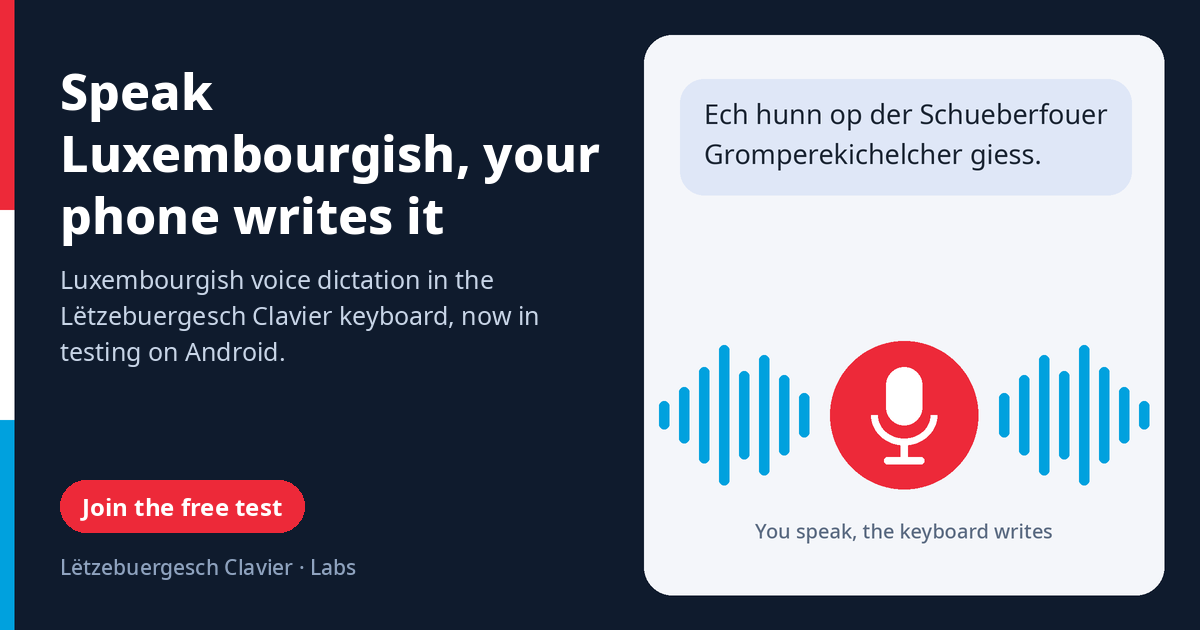
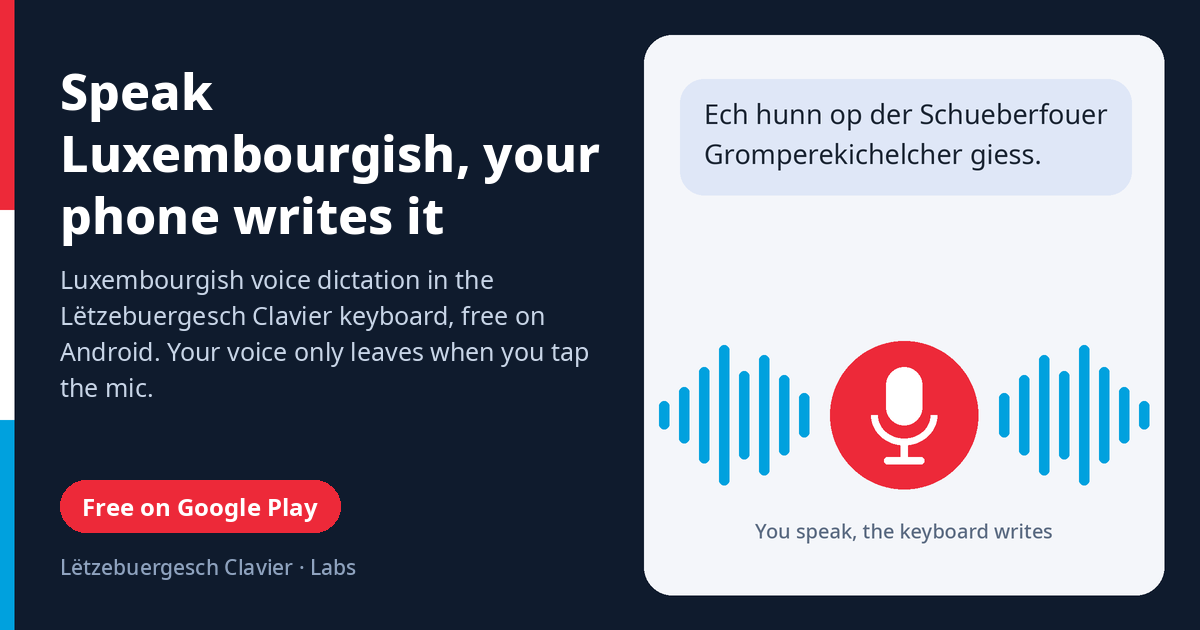
docs(site): la promesse de confidentialité suit la dictée de la 33.0.0
Ce que l'on tape ne quitte toujours pas le téléphone ; la voix, elle, part à
l'Université du Luxembourg pendant une dictée. Les pages qui disaient encore
le contraire sont corrigées : pitch deck (plus de « 0 permission réseau »),
feuille de route et note de licences, comparatif (ligne « en essai » en
double), simulateur. La page Labs ne présente plus la dictée comme un test :
elle est dans la version stable et renvoie vers Google Play. Le QR de l'APK
Labs quitte l'espace ambassadeurs, les images de partage ne disent plus
« en test » ni « hors ligne ». La politique 3.0 précise qu'elle s'applique
depuis la 33.0.0.

Claude-Session: https://claude.ai/code/session_017v16GDU5NnmPUr6u9MBxF1

diff --git a/docs/labs.html b/docs/labs.html
@@ -3,8 +3,8 @@
 <head>
 <meta charset="utf-8">
 <meta name="viewport" content="width=device-width, initial-scale=1">
-<title data-i18n="title">Labs · la dictée luxembourgeoise en avant-première</title>
-<meta name="description" content="Version expérimentale du Lëtzebuergesch Clavier avec la dictée vocale luxembourgeoise : parlez, le clavier écrit. La reconnaissance est assurée par le service LuxASR de l'Université du Luxembourg." data-i18n-content="meta-desc">
+<title data-i18n="title">Labs · la dictée luxembourgeoise</title>
+<meta name="description" content="La dictée vocale luxembourgeoise du Lëtzebuergesch Clavier, dans la version stable depuis la 33.0.0 : parlez, le clavier écrit. La reconnaissance est assurée par le service LuxASR de l'Université du Luxembourg." data-i18n-content="meta-desc">
 <link rel="icon" type="image/x-icon" href="favicon.ico">
 <link rel="stylesheet" href="assets/theme.css">
 <script>(function(){var t=localStorage.getItem('kreyol-theme');if(t)document.documentElement.setAttribute('data-theme',t);})();</script>
@@ -202,10 +202,11 @@ details.tech p{color:var(--ink-soft);font-size:14.5px;}
   <p class="eyebrow" data-i18n="eyebrow">Lëtzebuergesch Clavier · Labs</p>
   <h1 data-i18n="h1">Parlez, le clavier écrit 🔬</h1>
   <p class="lead" data-i18n="lead">
-    Labs est l'atelier du clavier : des versions expérimentales, en avance sur
-    la version stable, que vous pouvez essayer avant tout le monde. Celle-ci
-    ajoute la <strong>dictée vocale luxembourgeoise</strong> : vous parlez, et
-    le texte s'écrit au fil de votre phrase.
+    La <strong>dictée vocale luxembourgeoise</strong> est sortie de l'atelier :
+    depuis la version 33.0.0, elle est dans le clavier que tout le monde
+    installe. Vous parlez, et le texte s'écrit au fil de votre phrase. Cette
+    page raconte comment elle marche, où part votre voix, et ce qu'elle vaut,
+    mesuré.
   </p>
 </header>
 
@@ -237,13 +238,13 @@ details.tech p{color:var(--ink-soft);font-size:14.5px;}
     <div class="get-main">
       <p class="cta">
         <a class="btn primary"
-           href="https://play.google.com/apps/testing/com.potomitan.luxkeyboard"
+           href="https://play.google.com/store/apps/details?id=com.potomitan.luxkeyboard&amp;referrer=utm_source%3Dsite%26utm_medium%3Dlabs%26utm_campaign%3Ddictee"
            data-i18n="install-cta">
-          📲 Rejoindre le test sur Google Play
+          📲 Installer depuis Google Play
         </a>
       </p>
       <p class="muted" data-i18n="install-muted">
-        Android 5.0 ou plus récent · test ouvert sur Google Play ·
+        Android 5.0 ou plus récent · version 33.0.0 ou ultérieure ·
         demande les permissions <strong>micro</strong>, <strong>Internet</strong>
         et <strong>état du réseau</strong>
       </p>
@@ -283,9 +284,9 @@ details.tech p{color:var(--ink-soft);font-size:14.5px;}
   <div class="card">
     <ol class="steps">
       <li data-i18n="step1">
-        <strong>Rejoignez le test</strong> avec le bouton ci-dessus, depuis le
-        téléphone (compte Google requis), puis installez le clavier ou mettez-le
-        à jour depuis Google Play.
+        <strong>Installez le clavier</strong> avec le bouton ci-dessus, depuis
+        le téléphone, ou mettez-le à jour depuis Google Play : la dictée arrive
+        avec la version 33.0.0.
       </li>
       <li data-i18n="step3">
         <strong>Activez le clavier</strong> dans
@@ -540,8 +541,8 @@ details.tech p{color:var(--ink-soft);font-size:14.5px;}
     <li><span class="k" data-i18n="facts-k2">Reconnaissance</span><span class="v" data-i18n="facts-v2">Service LuxASR, Université du Luxembourg</span></li>
     <li><span class="k" data-i18n="facts-k3">Où va votre voix</span><span class="v" data-i18n="facts-v3">À l'Université du Luxembourg, pendant la dictée</span></li>
     <li><span class="k" data-i18n="facts-k4">Connexion</span><span class="v" data-i18n="facts-v4">Indispensable pour dicter ; le micro barré signale son absence</span></li>
-    <li><span class="k" data-i18n="facts-k5">Icône</span><span class="v" data-i18n="facts-v5">Marquée LABS sur l'écran d'accueil</span></li>
-    <li><span class="k" data-i18n="facts-k6">Installation</span><span class="v" data-i18n="facts-v6">Test ouvert Google Play, à partir du lien de cette page</span></li>
+    <li><span class="k" data-i18n="facts-k5">Icône</span><span class="v" data-i18n="facts-v5">Celle du clavier, sans marque LABS : c'est la version stable</span></li>
+    <li><span class="k" data-i18n="facts-k6">Installation</span><span class="v" data-i18n="facts-v6">Google Play, version 33.0.0 ou ultérieure</span></li>
     <li><span class="k" data-i18n="facts-k7">Mise à jour</span><span class="v" data-i18n="facts-v7">Par Google Play, comme toute application</span></li>
   </ul>
 </section>
@@ -549,7 +550,7 @@ details.tech p{color:var(--ink-soft);font-size:14.5px;}
 <footer class="page">
   <p data-i18n="footer-p1">
     Une question ? Écrivez à <a href="mailto:medhi.famibelle@gmail.com">medhi.famibelle@gmail.com</a>.<br>
-    Les versions stables sont sur la page <a href="nouveautes.html">Nouveautés</a>.
+    Ce qui change à chaque version est sur la page <a href="nouveautes.html">Nouveautés</a>.
   </p>
   <p>Lëtzebuergesch Clavier</p>
 </footer>
@@ -565,23 +566,23 @@ details.tech p{color:var(--ink-soft);font-size:14.5px;}
   'use strict';
 
   var EN = {
-    'title': 'Labs · Luxembourgish dictation, early access',
-    'meta-desc': "Experimental build of the Lëtzebuergesch Clavier keyboard with Luxembourgish voice dictation: speak, the keyboard writes. Recognition is provided by the University of Luxembourg's LuxASR service.",
+    'title': 'Labs · Luxembourgish dictation',
+    'meta-desc': "Luxembourgish voice dictation in the Lëtzebuergesch Clavier keyboard, in the stable version since 33.0.0: speak, the keyboard writes. Recognition is provided by the University of Luxembourg's LuxASR service.",
     'eyebrow': 'Lëtzebuergesch Clavier · Labs',
     'h1': 'Speak, the keyboard writes 🔬',
-    'lead': "Labs is the keyboard's workshop: experimental builds, ahead of the stable version, that you can try before everyone else. This one adds <strong>Luxembourgish voice dictation</strong>: you speak, and the text writes itself as your sentence goes.",
+    'lead': "<strong>Luxembourgish voice dictation</strong> has left the workshop: since version 33.0.0 it is in the keyboard everyone installs. You speak, and the text writes itself as your sentence goes. This page tells how it works, where your voice goes, and what it is worth, measured.",
     'thanks-h2': '🎓 Dictation by the University of Luxembourg',
     'thanks-p1': 'Speech recognition is provided by <a href="https://luxasr.uni.lu/">LuxASR</a>, the Luxembourgish automatic speech recognition service of the <strong>University of Luxembourg</strong>. Its real-time engine is published as open source, <a href="https://github.com/PeterGilles/LuxASRlive">LuxASRlive</a>, under the Apache 2.0 licence.',
     'thanks-p2': "The keyboard sends the sound and shows the text that comes back: the quality of the dictation is their work. Thanks to their team, without whom this feature wouldn't exist. During dictation, the sound is processed by their service: the <a href=\"https://luxasr.uni.lu/\">University's data protection policy</a> applies to that part.",
-    'install-cta': '📲 Join the test on Google Play',
-    'install-muted': 'Android 5.0 or later · open test on Google Play · requests the <strong>microphone</strong>, <strong>Internet</strong> and <strong>network state</strong> permissions',
+    'install-cta': '📲 Install from Google Play',
+    'install-muted': 'Android 5.0 or later · version 33.0.0 or later · requests the <strong>microphone</strong>, <strong>Internet</strong> and <strong>network state</strong> permissions',
     'keyboard-h2': 'The keyboard, with its dictation',
     'keyboard-p': "The keyboard below is the <a href=\"simulateur.html\">simulator</a>'s, with dictation already armed. The microphone transcribes Luxembourgish <strong>in real time</strong>, as on the phone; below it, a second panel shows what the service <strong>translates into French</strong>, sentence by sentence.",
     'iframe-title': 'Lëtzebuergesch keyboard, LuxASR dictation with translation',
     'capture-alt': 'Whole phone screen on an Android emulator, dictating into a text message: under the LuxASR banner, the sentence « Moien, mir treffen eis muer um zwou Auer op der Schueberfouer. » appears in three steps, then the microphone closes',
     'capture-figcaption': "On an Android emulator, in the Messages app: the text is written into the bubble as you speak, under the <strong>🌐 LuxASR</strong> banner.",
     'install-h2': 'Install and try it',
-    'step1': '<strong>Join the test</strong> with the button above, from your phone (Google account required), then install or update the keyboard from Google Play.',
+    'step1': '<strong>Install the keyboard</strong> with the button above, from your phone, or update it from Google Play: dictation comes with version 33.0.0.',
     'step3': '<strong>Enable the keyboard</strong> under <code>Settings › System › Keyboards › On-screen keyboard</code>, then pick it as the current keyboard, if needed through the keyboard icon that appears at the bottom of the screen when a text field is open.',
     'step4': '<strong>Dictate.</strong> Open any text field, tap the <strong>microphone</strong> to the right of the suggestion bar. The first time, a screen explains that your voice goes to the University: tap <strong>I agree</strong>, then allow microphone access (“No thanks” leaves dictation switched off). The banner shows <strong>🌐 LuxASR</strong> while listening. No need to tap the microphone again to finish: <strong>dictation stops on its own</strong> two to three seconds after the sentence ends.',
     'deroule-h2': 'What happens when you tap the microphone',
@@ -634,10 +635,10 @@ details.tech p{color:var(--ink-soft);font-size:14.5px;}
     'facts-k2': 'Recognition', 'facts-v2': 'LuxASR service, University of Luxembourg',
     'facts-k3': 'Where your voice goes', 'facts-v3': 'To the University of Luxembourg, during dictation',
     'facts-k4': 'Connection', 'facts-v4': 'Required to dictate; the crossed-out microphone signals its absence',
-    'facts-k5': 'Icon', 'facts-v5': 'Marked LABS on the home screen',
-    'facts-k6': 'Installation', 'facts-v6': 'Open test on Google Play, from the link on this page',
+    'facts-k5': 'Icon', 'facts-v5': 'The keyboard’s own, no LABS mark: this is the stable version',
+    'facts-k6': 'Installation', 'facts-v6': 'Google Play, version 33.0.0 or later',
     'facts-k7': 'Updates', 'facts-v7': 'Through Google Play, like any app',
-    'footer-p1': 'A question? Write to <a href="mailto:medhi.famibelle@gmail.com">medhi.famibelle@gmail.com</a>.<br>Stable versions are on the <a href="nouveautes.html">What’s new</a> page.'
+    'footer-p1': 'A question? Write to <a href="mailto:medhi.famibelle@gmail.com">medhi.famibelle@gmail.com</a>.<br>What changes with each version is on the <a href="nouveautes.html">What’s new</a> page.'
   };
 
   var FR = {}; // rempli au premier appel, à partir du HTML tel qu'écrit

diff --git a/docs/ambassadeurs.html b/docs/ambassadeurs.html
@@ -344,14 +344,14 @@ Bien à vous,</div>
     <li><a href="privacy/privacy-policy.html">La confidentialité</a> : <span>« Un clavier voit tout ce que je tape. » Ce qu'on tape ne quitte jamais le téléphone, seule la dictée envoie la voix, à l'Université du Luxembourg ; désactivation automatique dans les champs de mot de passe.</span></li>
     <li><a href="guide.html">Le guide</a> : <span>« Je ne saurai pas l'installer. » L'installation et l'activation, étape par étape.</span></li>
     <li><a href="nouveautes.html">Les nouveautés</a> : <span>« C'est encore vivant ? » Ce qui a changé à chaque version, en clair.</span></li>
-    <li><a href="labs.html">Labs</a> : <span>« Et après ? » Les versions expérimentales, à présenter comme des essais et rien de plus.</span></li>
+    <li><a href="labs.html">Labs</a> : <span>« Et la dictée ? » Comment elle marche, où part la voix, et ce qu'elle vaut, mesuré.</span></li>
   </ul>
 </section>
 
 <section id="scanner">
   <h2>5. À scanner, à coller</h2>
   <p class="section-sub">
-    Cinq codes, cinq destinations, une couleur chacun, pour qu'on ne les
+    Quatre codes, quatre destinations, une couleur chacun, pour qu'on ne les
     confonde pas sur une même table. Tous en 980 × 980 px avec la correction
     d'erreur maximale : ils restent lisibles imprimés, photographiés de travers
     ou repris dans une story.
@@ -370,10 +370,6 @@ Bien à vous,</div>
       <figure>
         <a href="assets/qr-luxkeyb-apk.png" download><img src="assets/qr-luxkeyb-apk.png" alt="QR code téléchargeant directement l'APK de la dernière version"></a>
         <figcaption><strong>APK stable</strong><br>le téléchargement démarre au scan</figcaption>
-      </figure>
-      <figure>
-        <a href="assets/qr-luxkeyb-luxasr.png" download><img src="assets/qr-luxkeyb-luxasr.png" alt="QR code téléchargeant l'APK de la version Labs"></a>
-        <figcaption><strong>Labs</strong><br>la version d'essai</figcaption>
       </figure>
       <figure>
         <a href="assets/qr-luxkeyb-site.png" download><img src="assets/qr-luxkeyb-site.png" alt="QR code ouvrant la page d'accueil du site"></a>

diff --git a/docs/labs-en.html b/docs/labs-en.html
@@ -3,19 +3,19 @@
 <head>
 <meta charset="utf-8">
 <meta name="viewport" content="width=device-width, initial-scale=1">
-<title>Labs · Luxembourgish dictation, early access</title>
+<title>Labs · Luxembourgish dictation</title>
 <!-- Lien à partager en anglais. Les robots d'aperçu (WhatsApp, réseaux) ne
      lancent pas le JavaScript de labs.html : ?lang=en leur montrerait les
      balises françaises. Cette page porte les balises anglaises et renvoie le
      visiteur vers la page Labs en anglais. -->
-<meta name="description" content="Join the test of Luxembourgish voice dictation in the Lëtzebuergesch Clavier keyboard, free on Android.">
+<meta name="description" content="Luxembourgish voice dictation in the Lëtzebuergesch Clavier keyboard, free on Android since version 33.0.0.">
 <link rel="canonical" href="https://famibelle.github.io/LuxKeyb/labs.html?lang=en">
 <meta property="og:type" content="website">
 <meta property="og:locale" content="en_GB">
 <meta property="og:site_name" content="Lëtzebuergesch Clavier">
 <meta property="og:url" content="https://famibelle.github.io/LuxKeyb/labs-en.html">
 <meta property="og:title" content="Speak Luxembourgish, your phone writes it 🎙">
-<meta property="og:description" content="Join the test of Luxembourgish voice dictation in the Lëtzebuergesch Clavier keyboard, free on Android.">
+<meta property="og:description" content="Luxembourgish voice dictation in the Lëtzebuergesch Clavier keyboard, free on Android since version 33.0.0.">
 <meta property="og:image" content="https://famibelle.github.io/LuxKeyb/assets/og/partage-labs-en.png">
 <meta property="og:image:width" content="1200">
 <meta property="og:image:height" content="630">
@@ -26,6 +26,6 @@
 <script>location.replace('labs.html?lang=en' + location.hash);</script>
 </head>
 <body>
-<p><a href="labs.html?lang=en">Open Labs: Luxembourgish dictation, early access</a></p>
+<p><a href="labs.html?lang=en">Open Labs: Luxembourgish dictation</a></p>
 </body>
 </html>

diff --git a/docs/dossier-feuille-de-route.html b/docs/dossier-feuille-de-route.html
@@ -199,20 +199,22 @@ C'est le meilleur rapport entre l'effort et le résultat, et le seul chantier
     accord préalable d'Apple. L'intégration native, elle, reste un objectif
     de plus long terme et n'est pas un préalable.</li>
     <li><b>Dictée luxembourgeoise adossée à la Schreifmaschinn du ZLS</b>
-    plutôt qu'à un modèle tiers. Un prototype de laboratoire montre déjà que le
-    clavier sait confier sa dictée à un service distant, en l'occurrence
-    <a href="https://luxasr.uni.lu/">LuxASR</a>, à l'Université du Luxembourg,
-    Le sujet est donc prêt techniquement, et ce qui reste ne l'est pas :
-    l'accord formel du service appelé, et la question de confidentialité,
-    puisque l'audio quitterait l'appareil, ce que la politique publiée exclut
-    aujourd'hui. Les deux se tranchent avant et non après.</li>
+    plutôt qu'à un modèle tiers. Depuis la version 33.0.0, le clavier dicte
+    en luxembourgeois en confiant la voix à un service distant,
+    <a href="https://luxasr.uni.lu/">LuxASR</a>, à l'Université du Luxembourg.
+    La question de confidentialité a été tranchée avant la sortie et non après :
+    la <a href="privacy/privacy-policy.html#dictee-vocale">politique publiée</a>
+    a été réécrite pour dire que la voix, et elle seule, quitte l'appareil
+    pendant une dictée. S'adosser au ZLS reste l'objectif : une même source
+    pour l'écrit et la parole.</li>
     <li><b>Maintenance continue</b> : compatibilité avec les versions
     d'Android et d'iOS, régénération du dictionnaire à chaque republication
     trimestrielle du LOD, support des utilisateurs.</li>
   </ul>
   <h3>Ce qu'il faut pour démarrer</h3>
   <p>
-    Un compte développeur Apple, et une décision sur la dictée. Ce chantier
+    Un compte développeur Apple, et une décision sur le service qui portera la
+    dictée à terme. Ce chantier
     peut suivre les deux premiers sans les retarder.
   </p>
 </section>

diff --git a/docs/pitch-deck.html b/docs/pitch-deck.html
@@ -134,11 +134,12 @@ tbody tr:last-child td{border-bottom:0;}
     <p class="lead">
       Le clavier qui permet d'écrire le luxembourgeois sur son téléphone
       aussi facilement qu'on y écrit le français ou l'allemand. Publié,
-      mesuré, et fonctionnant sans aucun accès au réseau.
+      mesuré, et dont la frappe fonctionne sans aucun accès au réseau.
+      Depuis la version 33.0.0, il dicte aussi en luxembourgeois.
     </p>
     <div class="tiles">
       <div class="tile hi"><span class="n">123 297</span><span class="k">formes luxembourgeoises reconnues, adossées au dictionnaire officiel de la langue</span></div>
-      <div class="tile"><span class="n">0</span><span class="k">permission réseau déclarée : aucune frappe ne peut quitter l'appareil</span></div>
+      <div class="tile"><span class="n">0</span><span class="k">mot tapé envoyé : seule la voix part, pendant une dictée, vers l'Université du Luxembourg</span></div>
       <div class="tile"><span class="n">28 sept. 2026</span><span class="k">ouverture publique sur Google Play, validée par Google avant la date prévue</span></div>
     </div>
     <p class="small" style="margin-top:24px">

diff --git a/docs/dossier-licences.html b/docs/dossier-licences.html
@@ -245,9 +245,12 @@
     n'utilise jamais le réseau, et cela se vérifie dans le code publié. Il n'y
     a ni compte, ni serveur, ni télémétrie. La seule donnée qui part est la
     voix, pendant une dictée, vers l'Université du Luxembourg, responsable de
-    ce traitement, qui la transcrit sans la conserver. Le traitement de données personnelles est nul, ce qui simplifie
-    considérablement l'introduction de l'outil dans une administration ou un
-    établissement scolaire.
+    ce traitement, qui la transcrit sans la conserver. De notre côté, le
+    traitement de données personnelles est nul, et un établissement qui ne veut
+    pas de la dictée retire au clavier l'accès au micro : il ne reste alors
+    rien qui sorte de l'appareil. Cela simplifie considérablement
+    l'introduction de l'outil dans une administration ou un établissement
+    scolaire.
   </p>
 </section>
 

diff --git a/docs/simulateur.html b/docs/simulateur.html
@@ -768,8 +768,9 @@
     <h1>Essayez le clavier luxembourgeois dans votre navigateur</h1>
     <p class="lede">
       Ce simulateur exécute le vrai moteur de suggestions du clavier Android
-      (dictionnaire, n-grammes, accents) directement dans la page : aucune
-      donnée ne quitte votre navigateur.
+      (dictionnaire, n-grammes, accents) directement dans la page : rien de
+      ce que vous tapez ne quitte votre navigateur. Seule la dictée, si vous
+      l'activez, envoie votre voix à l'Université du Luxembourg.
     </p>
     <p class="lede">
       Les lettres suivent la disposition <strong>QWERTZ</strong>, et

diff --git a/docs/assets/simulateur-dictee.js b/docs/assets/simulateur-dictee.js
@@ -6,8 +6,8 @@
  * au-dessus de `luxasr-client.js`, qui porte le protocole.
  *
  * **La voix quitte l'appareil.** C'est le service LuxASR de l'Université du
- * Luxembourg qui transcrit, et non un modèle embarqué comme dans la version
- * publiée du clavier. La dictée n'est donc pas branchée par défaut : elle
+ * Luxembourg qui transcrit, comme dans le clavier publié depuis la 33.0.0.
+ * La dictée n'est donc pas branchée par défaut : elle
  * demande `?asr=1` dans l'adresse, et un consentement explicite avant que le
  * micro ne s'ouvre. Cf. `docs/labs.html`, qui la présente.
  *

diff --git a/docs/privacy/privacy-policy.html b/docs/privacy/privacy-policy.html
@@ -821,6 +821,7 @@ Ceci est contrôlé par la politique de confidentialité de Google, pas la nôtr
 <li>Tableau Data Safety : enregistrements vocaux, transmis à l'Université du Luxembourg seulement pendant une dictée</li>
 <li>Âge minimum fixé à 16 ans</li>
 <li>La promesse est précisée : ce que vous tapez ne quitte jamais le téléphone ; seule la voix dictée part, et seulement quand vous dictez</li>
+<li>S'applique à l'application depuis la version 33.0.0, la première version publique à embarquer la dictée</li>
 </ul>
 <p><strong>Version 2.1 (25 août 2026) :</strong></p>
 <ul>

diff --git a/README.md b/README.md
@@ -173,12 +173,14 @@ Sprooch (ministère de la Culture) : le clavier ne les appelle pas.
 
 **Labs** est le canal des versions expérimentales : un APK construit à partir
 d'une branche de travail, pour la faire essayer avant qu'elle n'atteigne la
-version stable. Le détail des essais en cours est sur la page
-[Labs](https://famibelle.github.io/LuxKeyb/labs.html).
+version stable. La dictée vocale y a été essayée avant d'entrer dans la
+version stable avec la 33.0.0 ; la page
+[Labs](https://famibelle.github.io/LuxKeyb/labs.html) raconte désormais son
+fonctionnement.
 
 ### Installer une version Labs
 
-1. Téléchargez l'APK depuis la [préversion `labs`](https://github.com/famibelle/LuxKeyb/releases/tag/labs) (ou depuis la page [Labs](https://famibelle.github.io/LuxKeyb/labs.html) du site, qui affiche le build réellement disponible)
+1. Téléchargez l'APK depuis la [préversion `labs`](https://github.com/famibelle/LuxKeyb/releases/tag/labs) 
 2. Autorisez l'installation depuis cette source, puis installez l'APK
 3. Activez le clavier dans Paramètres → Système → Claviers, choisissez-le comme clavier courant
 4. Ouvrez un champ de texte, touchez le micro et autorisez l'accès au microphone au premier usage

diff --git a/docs/privacy/PRIVACY_POLICY_FR.md b/docs/privacy/PRIVACY_POLICY_FR.md
@@ -684,6 +684,7 @@ Nous pouvons mettre à jour cette politique pour refléter :
 - Tableau Data Safety : enregistrements vocaux, transmis à l'Université du Luxembourg seulement pendant une dictée
 - Âge minimum fixé à 16 ans
 - La promesse est précisée : ce que vous tapez ne quitte jamais le téléphone ; seule la voix dictée part, et seulement quand vous dictez
+- S'applique à l'application depuis la version 33.0.0, la première version publique à embarquer la dictée
 
 **Version 2.1 (25 août 2026) :**
 - Identité du développeur : Famibelle Médhi, établi au Luxembourg

diff --git a/docs/comparatif.md b/docs/comparatif.md
@@ -60,7 +60,6 @@ pour vous, sans jargon. Les étoiles se lisent ainsi : ⭐⭐⭐ très bien, ⭐
 | 📖 **Un dictionnaire luxembourgeois-français dedans** | ⭐⭐⭐ | ❌ | ❌ |
 | 🎮 **Des jeux pour apprendre des mots** | ⭐⭐⭐ | ❌ | ❌ |
 | ✋ **Écrire en glissant le doigt sur les lettres** | ❌<br>pas encore | ⭐⭐⭐ | ⭐⭐⭐ |
-| 🎤 **Dicter à voix haute en luxembourgeois** | ❌<br>pas encore, en essai | ❌<br>pas en luxembourgeois | ❌<br>pas en luxembourgeois |
 
 </div>
 
